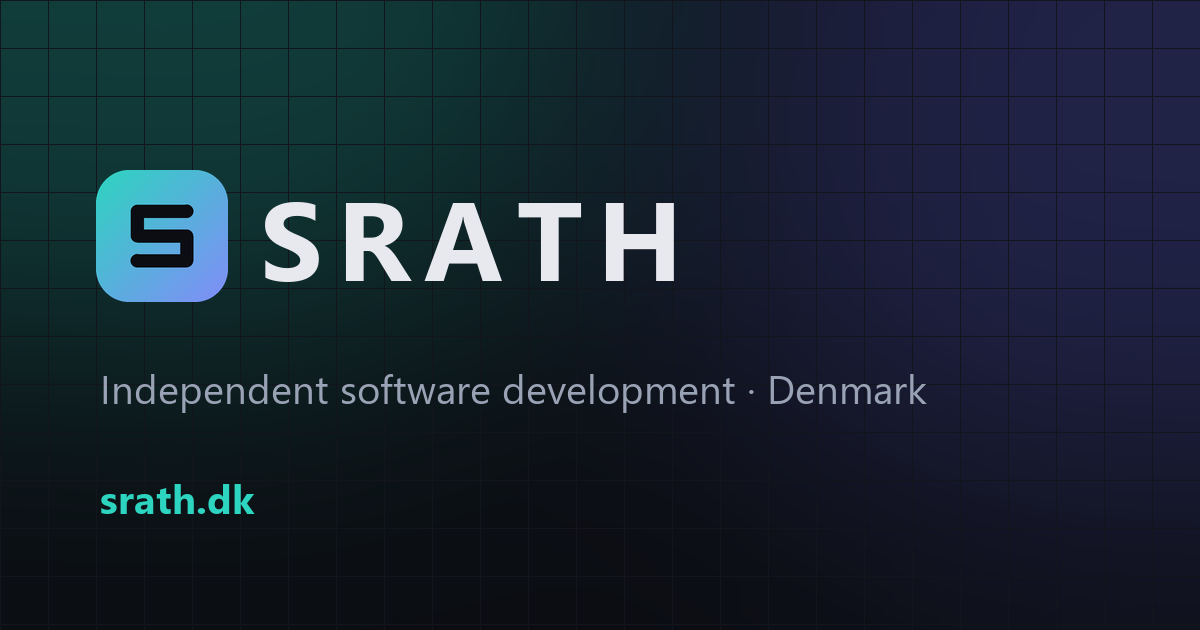
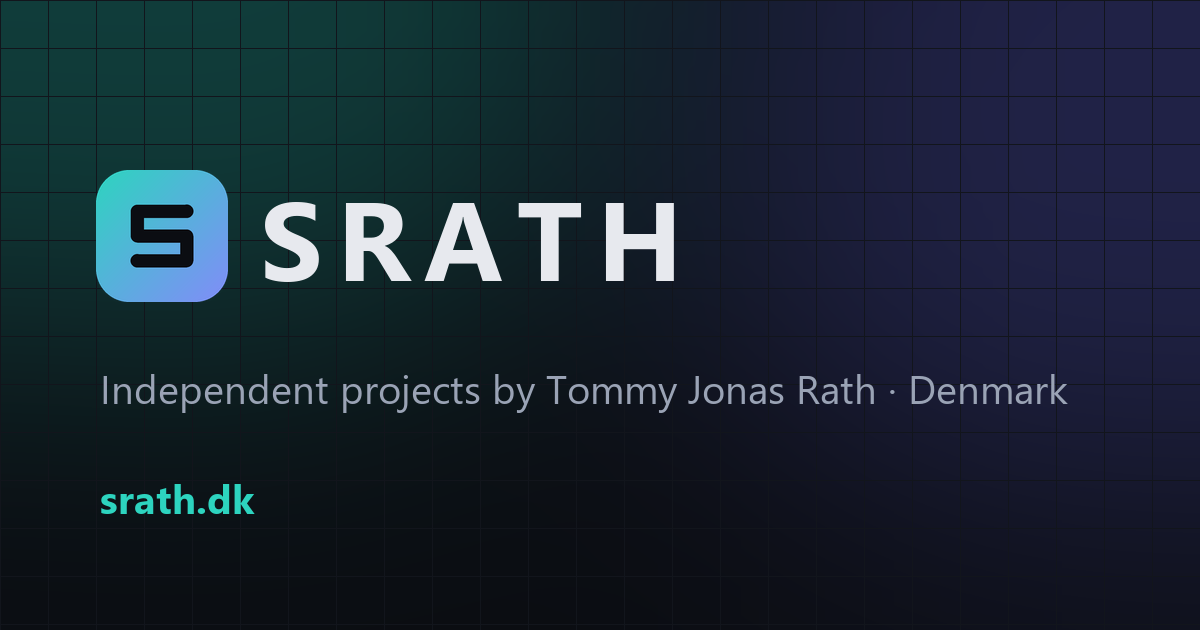
Present SRATH as home for independent projects
The front page now lists projects (the upcoming Baiganyo webshop and
Ever After) and has an About section with business details and LinkedIn,
instead of focusing only on mobile apps.

Changed region(s): [[0.2775, 0.573, 0.8942, 0.6635]]

diff --git a/src/styles.css b/src/styles.css
@@ -170,6 +170,15 @@ code { font-family: var(--mono); font-size: .9em; background: var(--surface-2); 
 .cta h2 { font-size: 1.5rem; }
 .cta p { margin: 0; max-width: 560px; }
 
+/* Projects & about ------------------------------------------------------------------ */
+.project-card .app-icon { width: 56px; height: 56px; }
+.project-monogram { display: grid; place-items: center; font-size: 1.5rem; font-weight: 800; color: var(--accent-ink); background: linear-gradient(135deg, var(--accent), var(--accent-2)); border: 0; }
+.status { color: var(--accent); }
+.about { display: grid; grid-template-columns: minmax(0, 1fr) 340px; gap: 48px; align-items: start; }
+.about .prose p:not(.eyebrow) { font-size: 1.05rem; color: #c9cdd6; }
+.about-link { width: 100%; margin-top: 20px; }
+@media (max-width: 860px) { .about { grid-template-columns: 1fr; gap: 32px; } }
+
 /* App page ------------------------------------------------------------------- */
 .app-hero-inner { display: flex; gap: clamp(20px, 4vw, 36px); align-items: flex-start; flex-wrap: wrap; }
 .app-hero-inner > div { flex: 1 1 320px; }

diff --git a/README.md b/README.md
@@ -13,6 +13,7 @@ Website for **SRATH**, a Danish sole proprietorship that develops and publishes 
 - [Project structure](#project-structure)
 - [Local development](#local-development)
 - [Site configuration](#site-configuration)
+- [Projects on the home page](#projects-on-the-home-page)
 - [Adding an application](#adding-an-application)
 - [Privacy policies](#privacy-policies)
 - [app-ads.txt](#app-adstxt)
@@ -26,7 +27,8 @@ Website for **SRATH**, a Danish sole proprietorship that develops and publishes 
 
 ```
 content/
-  site.json              Business name, contact email, CVR, etc.
+  site.json              Business name, contact email, CVR, about text, LinkedIn
+  projects.json          Non-app projects on the home page (e.g. the webshop)
   apps.json              One entry per application
   privacy/
     _TEMPLATE.md         Starting point for a new policy (ignored by the build)
@@ -81,11 +83,32 @@ Edit `content/site.json`:
 | Field | Purpose |
 | --- | --- |
 | `email` | **Required before launch.** Contact address used in every mailto link and the `{{contactEmail}}` placeholder in policies. |
+| `tagline` | Short line used in the home page title and footer. |
+| `about` | The "About" text on the home page. Markdown, so links like `[text](https://example.com)` work. |
+| `linkedin` | Your LinkedIn URL, shown on the home page and in the footer. Leave empty to hide. |
 | `legal.owner` | Owner of the sole proprietorship, shown under business information on the contact page. |
 | `legal.cvr` | Your CVR number, shown in the footer and on the contact page. Danish law generally requires businesses to show their CVR number on their website. |
 | `legal.address` | Optional. Shown on the contact page if set. |
 | `url` | `https://srath.dk`. Used for canonical URLs and the sitemap. |
 | `description` | Used for search engines and social previews. |
+
+## Projects on the home page
+
+The home page lists everything in `content/projects.json` (for example the Baiganyo webshop), followed automatically by every app in `apps.json`.
+
+```json
+{
+  "name": "Baiganyo",
+  "type": "Webshop",
+  "status": "Opening soon",
+  "description": "An upcoming webshop.",
+  "url": "https://baiganyo.dk",
+  "linkLabel": "baiganyo.dk",
+  "icon": "/images/projects/baiganyo.png"
+}
+```
+
+`name`, `type` and `description` are required. Without an `icon`, the card shows the first letter of the name. When the webshop opens, change `status` (for example to `"Open"`) and write a proper `description`.
 
 ## Adding an application
 
